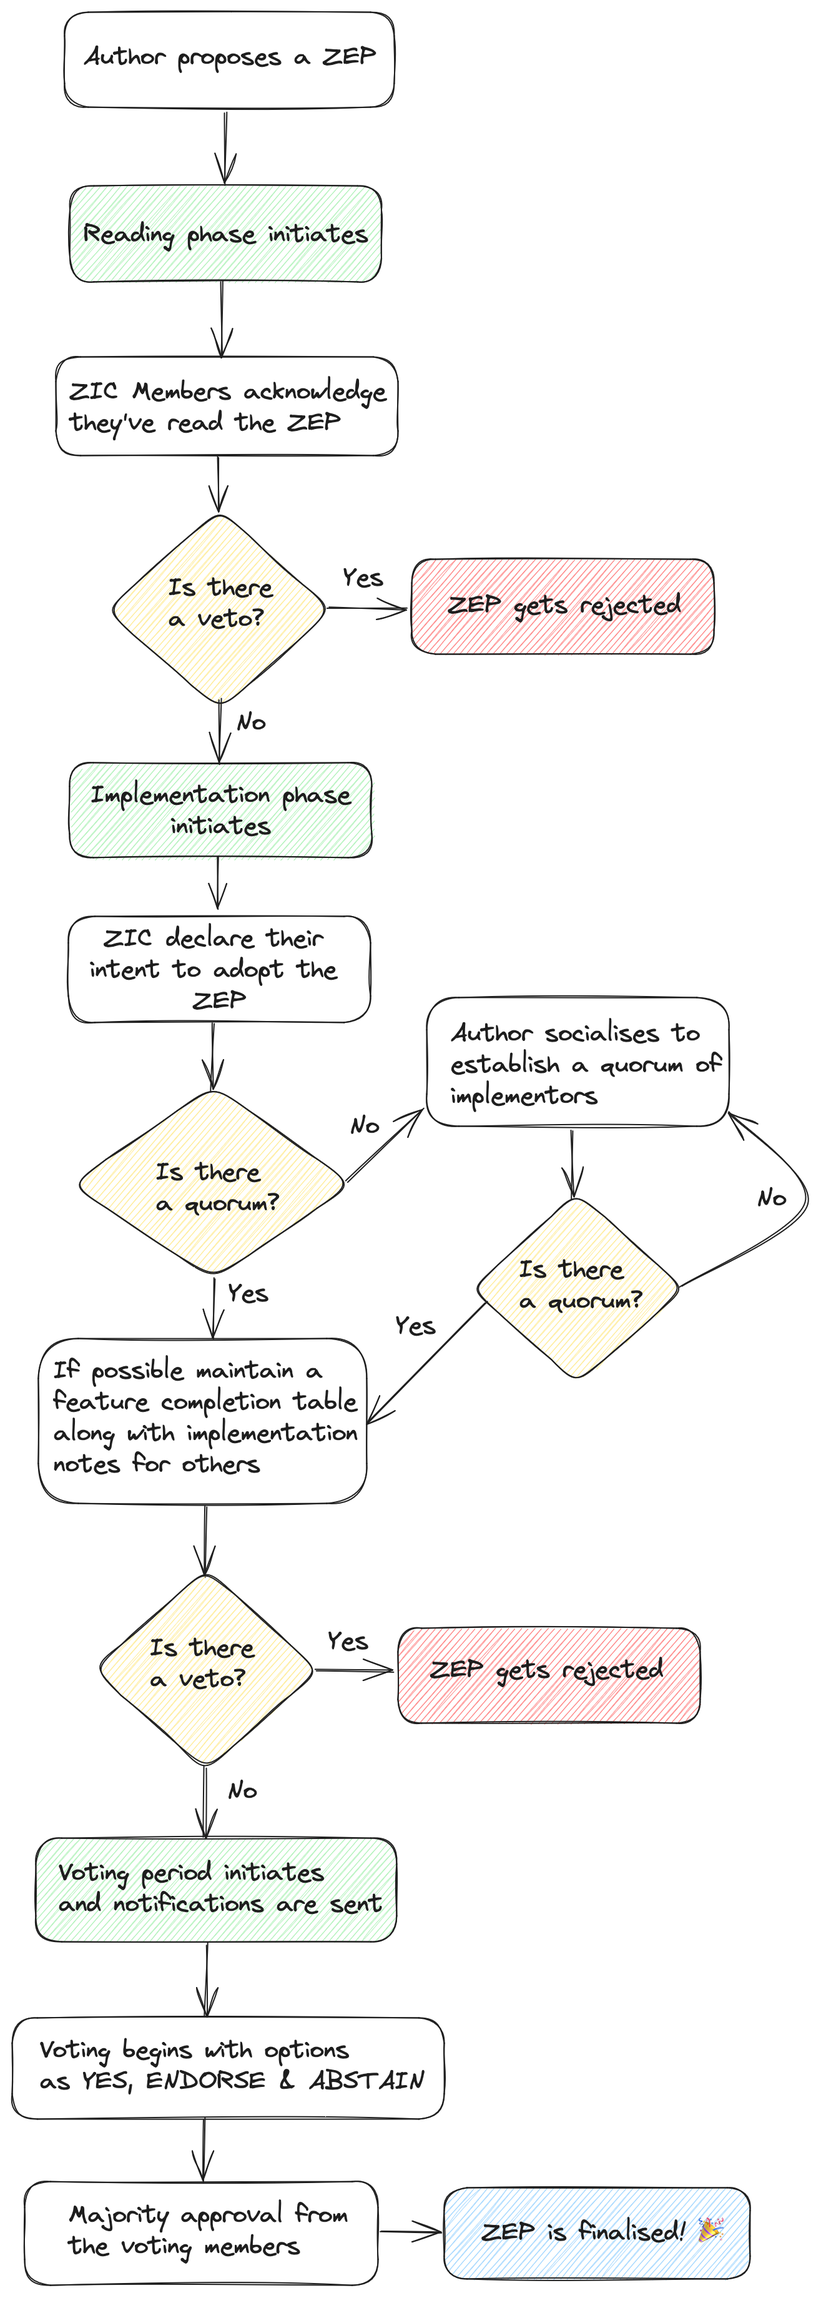
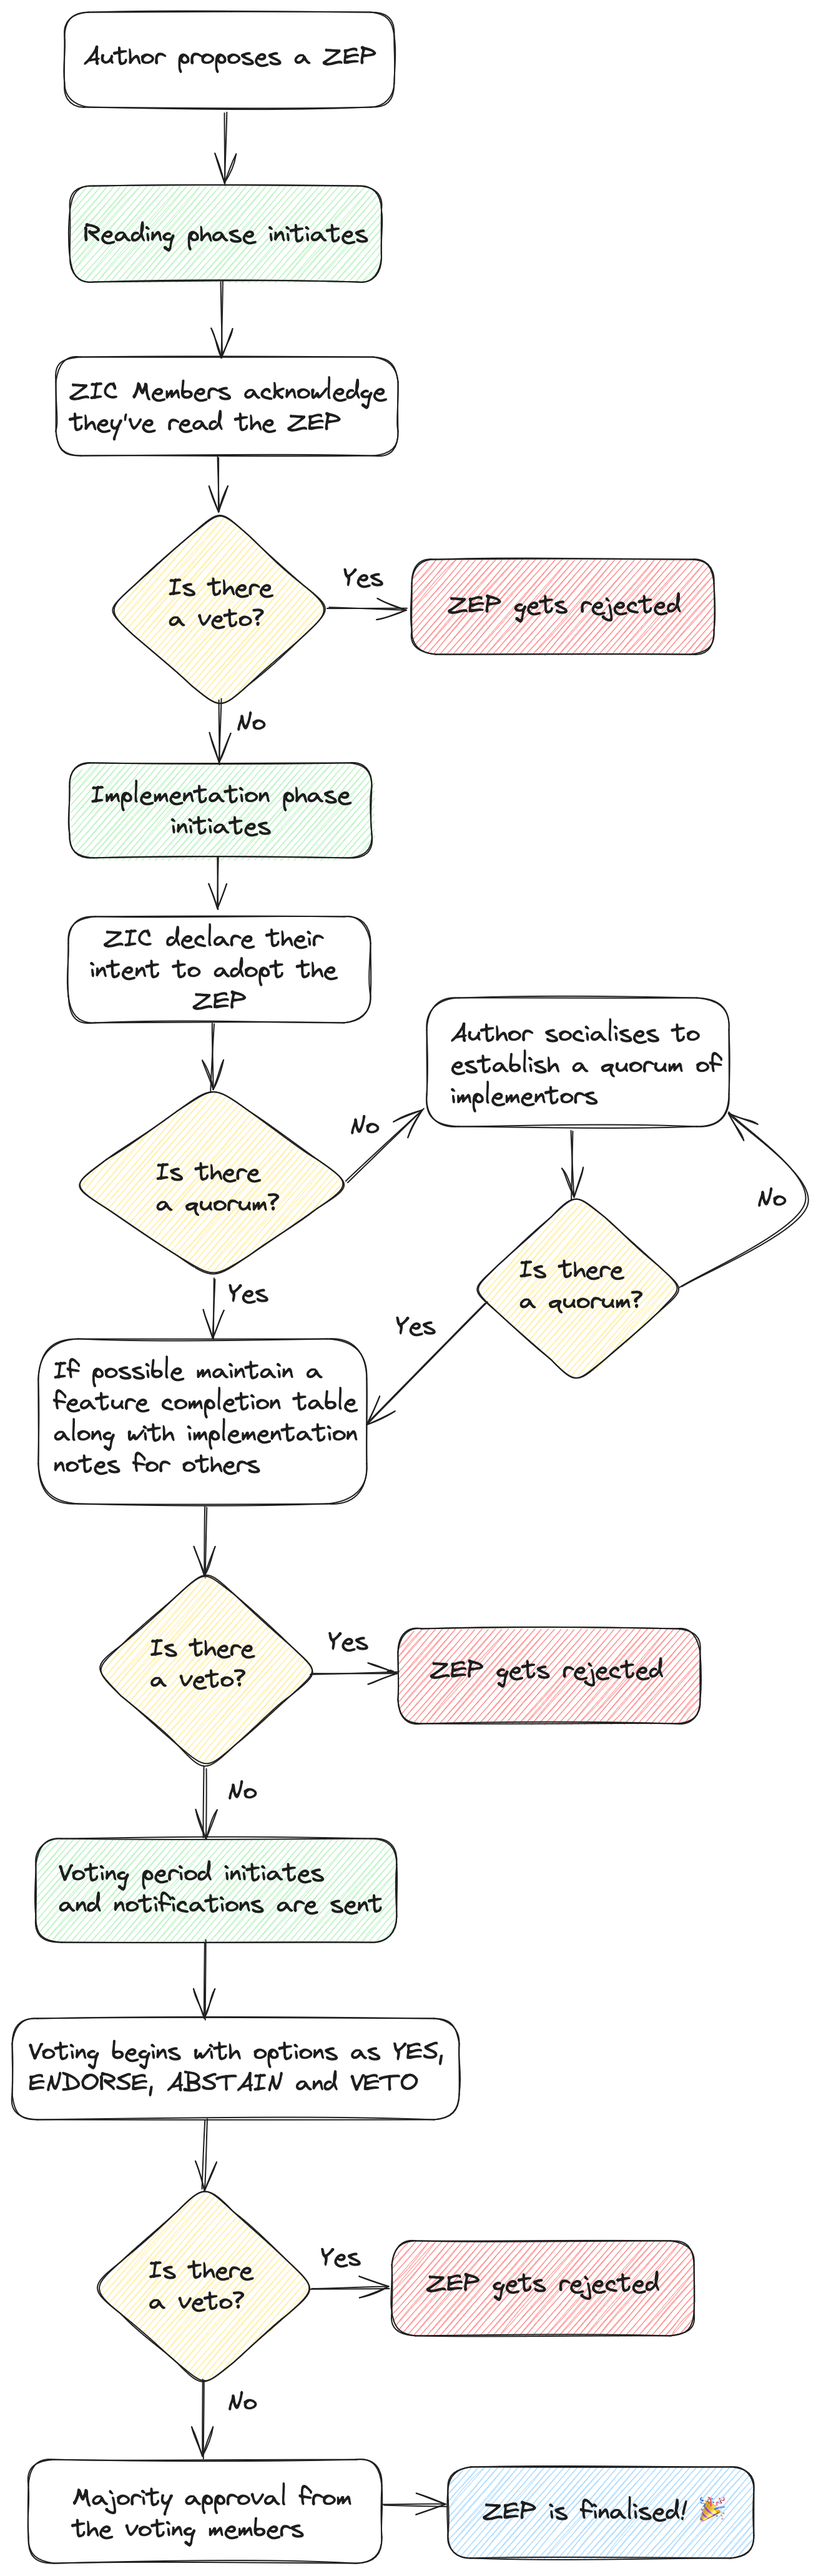
Update various section in ZEP0.1 and improve the flow

diff --git a/active/ZEP0000.1.md b/active/ZEP0000.1.md
@@ -12,7 +12,7 @@ nav_order: 2
 
 # ZEP 0.1 — Purpose and process (Revised)
 
-Author: Sanket Verma [(@MSanKeys963)](https://github.com/msankeys963), Zarr
+Author: Sanket Verma [(@msankeys963)](https://github.com/msankeys963), Zarr
 
 Email address: <svsanketverma5@gmail.com>
 
@@ -20,7 +20,7 @@ Status: Active
 
 Type: Process
 
-Created: 2024-03-01
+Created: 2024-03-03
 
 Replaces: ZEP 0
 
@@ -160,31 +160,51 @@ mentioned below. This allows the author to flesh out the draft ZEP to make it
 properly formatted, of high quality, and address initial concerns about the
 proposal.
 
-Spec ZEPs consist of a PR to the [zarr-specs] repository containing changes to
-the spec and a narrative document explaining the need, importance, and use case
-for the change. It is also highly recommended that a complete implementation
-accompany the specification ZEP or at least an implementation PR in one of the
-repositories represented in the [zarr.dev/implementations].
-
 ## Submitting a ZEP
 
-For SPEC ZEPs, the proposal should be submitted as a draft ZEP via a GitHub pull
+### For SPEC ZEPs
+
+The proposal should be submitted as a draft ZEP via a GitHub pull
 request to the [zarr-specs] repository.
 
-The PR should contain the narrative text of the ZEP and should be submitted in
-the zarr-specs repository with the name `<zep-<n>.rst` under
-[/zarr-specs/docs/zeps/draft] where `<n>` is an appropriately assigned
+The PR should contain the narrative document explaining the need, importance,
+and use case for the change of the ZEP and should be submitted in the
+zarr-specs repository with the name `zep-<n>: <title>.rst` under
+[/zarr-specs/docs/zeps/draft], where `<n>` is an appropriately assigned
 four-digit number. The draft ZEP must use the [ZEP X - Template and
 Instructions][template.md] file.
 
-The SPEC ZEPs PR should also contain actual changes to the specification and
-mention the assigned four-digit ZEP number from the ZEP document.
+The SPEC ZEPs PR should also contain actual changes to the specification under
+[/zarr-specs/docs/specs/...] and mention the assigned four-digit ZEP number
+from the ZEP document.
 
-For ZEPs other than SPEC, the proposal should be submitted as a draft ZEP via a
-GitHub pull request to the [zarr-specs] repository with the name `zep-<n>.md`
-where `<n>` is an appropriately assigned four-digit number (e.g., zep-0000.md).
-The draft ZEP must use the [ZEP X - Template and Instructions]
-[template.md] file.
+It is also highly recommended that the PR should accompany a complete
+implementation or at least an implementation PR in one of the repositories
+represented at [zarr.dev/implementations].
+
+### For Lean ZEPs
+
+The proposal should be submitted as a draft ZEP via a GitHub pull
+request to the [zarr-specs] repository.
+
+The PR should contain the specific changes to the Zarr specification without
+requiring a separate narrative document. As Lean ZEPs involve minor and
+non-controversial changes, a narrative document and the use of the template and
+instructions file are not necessary.
+
+The Lean ZEPs PR should be submitted in the [zarr-specs] repository with the name
+`<zep-<n>: <title>.rst` under [/zarr-specs/docs/specs/...], where `<n>` is an
+appropriately assigned four-digit number.
+
+The PR should clearly outline the proposed changes to the specification and the
+assigned four-digit ZEP number.
+
+### For Informational and Process ZEPs
+
+The proposal should be submitted as a draft ZEP via a GitHub pull request to
+the [zarr-specs] repository with the name `zep-<n>: <title>.rst` where `<n>` is
+an appropriately assigned four-digit number (e.g., zep-0000.rst). The draft ZEP
+must use the [ZEP X - Template and Instructions][template.md] file.
 
 A few points to consider while submitting your ZEP:
 
@@ -227,6 +247,52 @@ avoids fragmenting the discussion, and ensures it is entirely considered part
 of the ZEP review process. Comments, support, concerns, and feedback on this
 designated thread are critical when reviewing the ZEP.
 
+## Review and Resolution
+
+The possible paths of the status of ZEPs are as follows:
+
+![Flowchart](../assets/images/zep_flowchart.png)
+
+All ZEPs should be created with the `Draft` status.
+
+Eventually, after the discussion, there may be a consensus that the ZEP should
+be accepted. At this point, the status becomes `Accepted`.
+
+To allow the gathering of additional design and interface feedback before
+committing to long term stability for specification change or standard library
+API, ZEP may also be marked as `“Provisional”`. This is short for
+“Provisionally Accepted” and indicates that the proposal has been accepted for
+inclusion in the reference implementation or storage specification, but
+additional user feedback is needed before the full design can be considered
+`“Final”`. Unlike regular accepted ZEPs, provisionally accepted ZEPs may still be
+Rejected or Withdrawn even after the related changes have been included in a
+Zarr release.
+
+Wherever possible, it is considered preferable to reduce the scope of a
+proposal to avoid the need to rely on the `“Provisional”` status (e.g. by
+deferring some features to later ZEPs), as this status can lead to version
+compatibility challenges in the wider Zarr ecosystem.
+
+A ZEP can also be assigned status `Deferred`. The ZEP author or [Zarr Steering
+Council] or Zarr Implementations Council can assign the ZEP this status when no
+progress is being made on the ZEP.
+
+A ZEP can also be `Rejected`. Perhaps, after all, is said and done it was not a
+good idea. It is still important to have a record of this fact. The `Withdrawn`
+status is similar—it means that the ZEP author themselves has decided that the
+ZEP is a bad idea, or has accepted that a competing proposal is a better
+alternative.
+
+When a ZEP is `Accepted`, `Rejected`, or `Withdrawn`, the ZEP should be updated
+accordingly. In addition to updating the status field, at the very least the
+`Resolution` header should be added with a link to the relevant link of the
+discussion.
+
+ZEPs can also be `Superseded` by a different ZEP, rendering the original
+obsolete. The `Replaced-By` and `Replaces` headers should be added to the
+original and new ZEPs respectively. Process ZEPs may also have a status of
+`Active` if they are never meant to be completed, e.g. ZEP 0 (this ZEP).
+
 ## How does a ZEP become accepted?
 
 The Zarr Enhancement Proposal (ZEP) undergoes a systematic process to ensure its
@@ -266,6 +332,10 @@ community.
       potential breaking changes to existing software implementations, serving
       as a precautionary measure.
 
+Authors may utilize the submitted pull request (PR) for gathering comments,
+feedback, acknowledgment, and facilitating engagement from ZIC members during
+the Reading Phase.
+
 ### Implementation Phase
 
 The Implementation Phase encompasses the timeline during which interested
@@ -293,10 +363,26 @@ codebases.
       real-time Feature Completion Table ensures effective coordination among
       the Zarr community and stakeholders.
 
+5. **Veto Consideration**:
+
+    - ZIC members hold the authority to veto the proposal if they identify
+      potential issues with its implementation in their software environments.
+      A veto signals the need to resolve these concerns before proceeding,
+      indicating that the ZEP proposal may not advance further until the
+      underlying issues are clarified.
+    - Should the author encounter challenges in addressing the vetoed concerns,
+      the ZEP proposal may be subject to rejection at this stage.
+
 5. **Concluding Implementation Phase**:
 
-    - Once a _majority_ of implementations are completed within the established
-      quorum, indicating the conclusion of the Implementation Phase.
+    - Upon the completion of a majority of implementations within the
+      established quorum and the absence of any vetoes, the ZEP may be
+      designated as `Accepted` or `Provisional` following consensus among ZIC
+      members and the broader Zarr community.
+
+These designations signify the successful integration and adoption of the
+proposal into the Zarr ecosystem, reflecting its alignment with existing
+implementations and consensus-driven acceptance.
 
 The author may utilize the submitted pull request (PR) or create an additional
 issue in the zarr-specs repository to gather implementation notes from the
@@ -326,29 +412,60 @@ Council (ZSC) formally vote on the ZEP proposal.
       still introduces potential breaking changes to existing software
       implementations, serving as a precautionary measure.
 
-4. **Majority Approval**:
-    - If the proposal receives a majority of YES and ENDORSE votes and no
-      vetoes, it proceeds to the finalization stage.
-
-5. **Outcome Determination**:
+4. **Outcome Determination**:
     - In the event of a VETO, the proposal undergoes further discussion and
       potential revisions to address concerns raised before proceeding.
     - If the author and stakeholders are not able to resolve the concerns
       regarding the proposal, the ZEP may be rejected due to lack of sufficient
       support or consensus.
 
+5. **Majority Approval**:
+    - If the proposal receives a majority of `YES` and `ENDORSE` votes and no
+      vetoes, it proceeds to the finalization stage.
+
 6. **Finalization**:
     - The Voting Phase concludes upon achieving a majority of approval from
       voting members and resolving any pending comments or feedback.
-    - After this phase, the ZEP proposal attains a `FINAL` status, and no
+    - After this phase, the ZEP proposal attains a `Final` status, and no
       further changes are permitted, ensuring a stable and conclusive outcome.
 
 The author may utilize the submitted pull request (PR) or create an additional
 issue in the zarr-specs repository to facilitate the voting phase.
 
-Here's a flowchart for a better visual understanding of the different phases:
+Here's a flowchart for enhanced visual understanding of the different phases:
 
 ![Phases](../assets/images/zep_phases.png)
+
+These phases are integral for ZEPs entailing substantial specification changes,
+such as the incrementation of major versions (e.g., V3 → V4) or addition of new
+extensions. However, they may not be applicable to Lean ZEPs, which primarily
+address minor adjustments to the specification.
+
+Authors are also encouraged to adapt or incorporate elements of these phases for
+use in Informational and Process ZEPs, as deemed appropriate.
+
+**Upon reaching Final status**, the corresponding pull request for the
+Specification ZEP in the [zarr-specs] repository must be merged.
+
+**Similarly, for finalised Informational or Process ZEPs**, the associated pull
+request in the [zarr-specs] repository must be merged. Following this, authors
+should promptly enact any procedural, guideline, or decision-making process
+changes as necessary.
+
+**For Lean ZEPs**, finalization occurs upon achieving consensus and receiving no
+objections from some or all members of the ZIC and ZSC, as well as the
+broader Zarr community. This consensus may be expressed through comments on
+the pull request or by approving it. Upon consensus, the pull request will be
+merged into the [zarr-specs] repository.
+
+Upon finalizing a ZEP, the author is responsible for:
+
+- Updating the status from `Draft` to `Accepted`/`Final` and including the link for
+  the voting issue if applicable.
+- Adding the date of acceptance in the ZEP header.
+- Relocating the ZEP from [/zarr-specs/docs/zeps/draft] to
+  [/zarr-specs/docs/zeps/accepted or final].
+- Removing the `DRAFT` watermark from the background if present.
 
 The [Zarr Steering Council] (ZSC) and [Zarr Implementations Council](ZIC) closely
 review the submitted ZEPs, while the author(s) should simultaneously engage the
@@ -359,71 +476,14 @@ various Zarr implementations, open-source projects/research groups using Zarr,
 the general Zarr community, and anyone else they think should be included in
 the discussions.
 
-- <Some_remaining_lines>
-
-## Review and Resolution
-
-The possible paths of the status of ZEPs are as follows:
-
-![Flowchart](../assets/images/flowchart.png)
-
-All ZEPs should be created with the `Draft` status.
-
-Eventually, after the discussion, there may be a consensus that the ZEP should
-be accepted. At this point, the status becomes `Accepted`.
-
-**Once a Specification ZEP has been Accepted**, the PR which was submitted in
-the [zarr-specs] repository must be merged. After that, the status will be
-changed to `Final`.
-
-**Once an informational or process ZEP has been Accepted**, the PR that was
-submitted in the [zarr-specs] repository must be merged. After that, the
-author should implement changes in the procedure, guidelines, decision-making
-process, etc. ASAP.
-
-To allow the gathering of additional design and interface feedback before
-committing to long term stability for specification change or standard library
-API, ZEP may also be marked as `“Provisional”`. This is short for
-“Provisionally Accepted” and indicates that the proposal has been accepted for
-inclusion in the reference implementation or storage specification, but
-additional user feedback is needed before the full design can be considered
-“Final”. Unlike regular accepted ZEPs, provisionally accepted ZEPs may still be
-Rejected or Withdrawn even after the related changes have been included in a
-Zarr release.
-
-Wherever possible, it is considered preferable to reduce the scope of a
-proposal to avoid the need to rely on the `“Provisional”` status (e.g. by
-deferring some features to later ZEPs), as this status can lead to version
-compatibility challenges in the wider Zarr ecosystem.
-
-A ZEP can also be assigned status `Deferred`. The ZEP author or [Zarr Steering
-Council] or Zarr Implementations Council can assign the ZEP this status when no
-progress is being made on the ZEP.
-
-A ZEP can also be `Rejected`. Perhaps, after all, is said and done it was not a
-good idea. It is still important to have a record of this fact. The `Withdrawn`
-status is similar—it means that the ZEP author themselves has decided that the
-ZEP is a bad idea, or has accepted that a competing proposal is a better
-alternative.
-
-When a ZEP is `Accepted`, `Rejected`, or `Withdrawn`, the ZEP should be updated
-accordingly. In addition to updating the status field, at the very least the
-`Resolution` header should be added with a link to the relevant link of the
-discussion.
-
-ZEPs can also be `Superseded` by a different ZEP, rendering the original
-obsolete. The `Replaced-By` and `Replaces` headers should be added to the
-original and new ZEPs respectively. Process ZEPs may also have a status of
-`Active` if they are never meant to be completed, e.g. ZEP 0 (this ZEP).
-
 ## Maintenance
 
-In general, ZEPs are no longer modified after they have reached the Final state.
-The changes made to the Zarr’s specification in the [zarr-specs] repository are
-considered the ultimate reference. 
+In general, ZEPs are no longer modified after they have reached the `Final`
+state. The changes made to the Zarr’s specification in the
+[zarr-specs] repository are considered the ultimate reference.
 
 However, finalised ZEPs may undergo minor updates as necessary, with adherence
-to semantic versioning principles."
+to semantic versioning principles.
 
 Process ZEPs may be updated over time to reflect changes to development
 practices and other details. The precise process followed in these cases will
@@ -440,13 +500,12 @@ Please see the [ZEP X - Template and Instructions][template.md] file and the
 ```
 Author: <list of authors’ real names and email addresses>
 Status: < Draft | Active | Accepted | Deferred | Rejected | Withdrawn | Final | Superseded >
-Type: <Specification | Process | Informational>
-Created: <date created on, in dd-mmm-yyyy format>
+Type: <Specification | Lean | Process | Informational>
+Created: <date created on, in yyyy-mm-dd format>
 Require: <Previous ZEP number>
-Zarr-Version: <version number>
 Replaces: <ZEP number>
 Replaced-By: <ZEP number>
-Resolution:  <Link to discussion thread>
+Discussion:  <Link to discussion thread>
 ```
 
 The Author header lists the names and the email addresses of all the authors of

diff --git a/template/template.md b/template/template.md
@@ -15,13 +15,11 @@ Author: <list of authors’ real name and email addresses>
 
 Status: < Draft | Active | Accepted | Deferred | Rejected | Withdrawn | Final | Superseded >
 
-Type: <Specification | Informational | Process>
+Type: <Specification | Lean | Informational | Process>
 
 Created: <date created on, in dd-mmm-yyyy format>
 
 Discussion: <url> (link to zarr-developers post for discussion)
-
-Resolution: <url> (required for Accepted | Rejected | Withdrawn)
 ```
 
 ## Abstract
